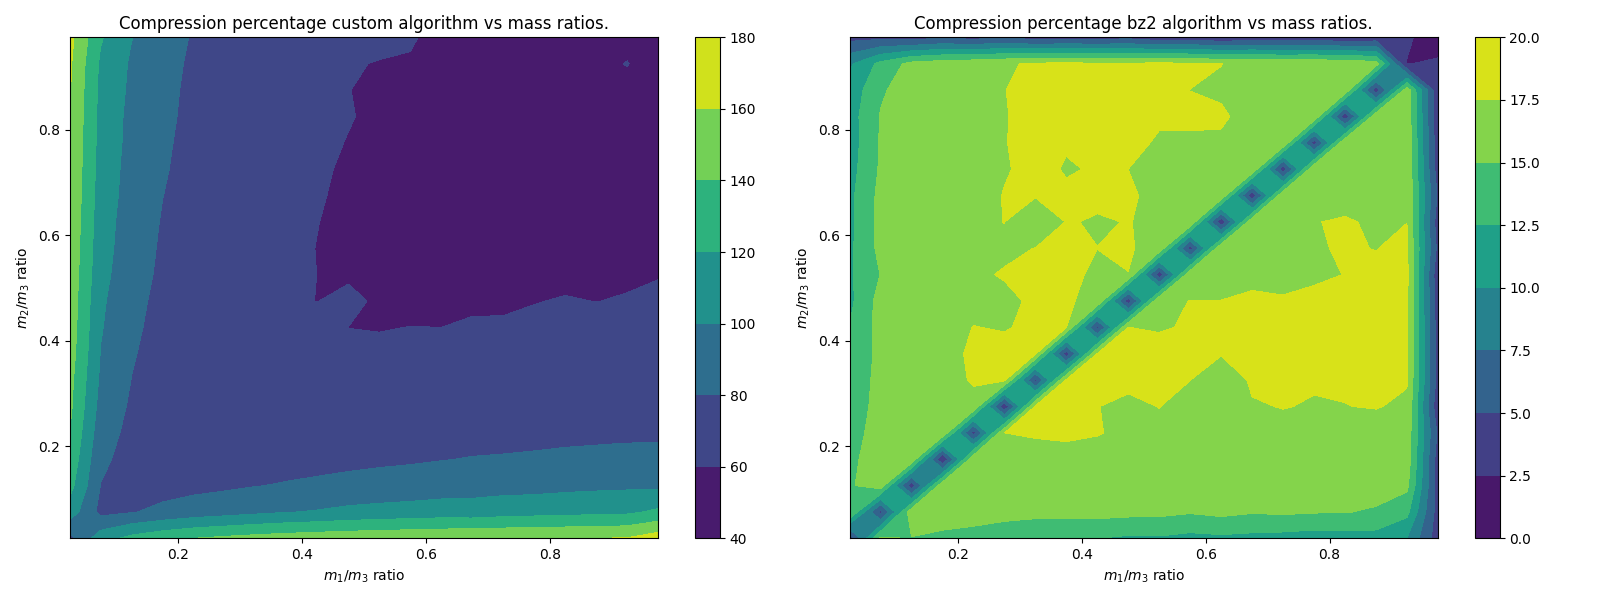
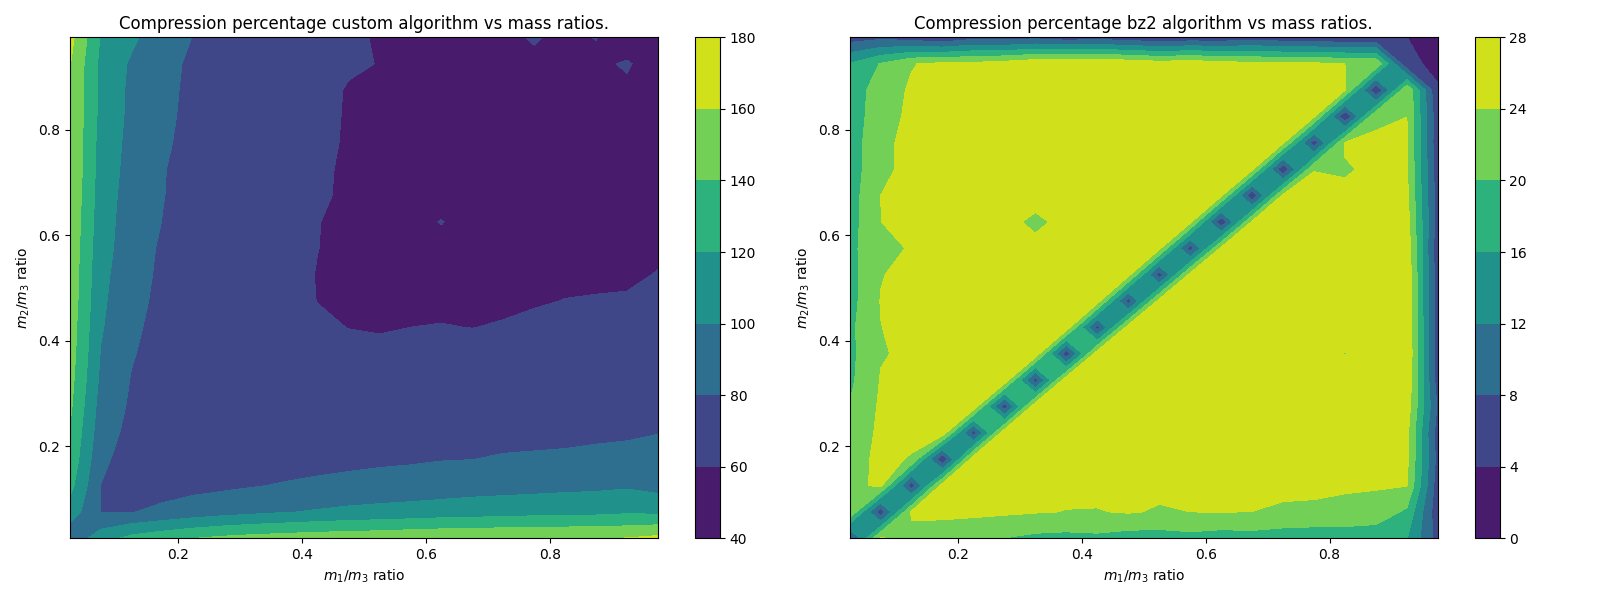
Fixed the faulty conversion to byte objects. A more efficient and correct method is utilized

diff --git a/compression_comparison/unified_plot.py b/compression_comparison/unified_plot.py
@@ -4,6 +4,7 @@ import sys
 import zlib
 import bz2
 import time
+import secrets
 
 from auxiliary import *
 
@@ -46,7 +47,7 @@ for i in range(len(sizes)):
 
         comp_zlib = sys.getsizeof(zlib.compress(bites))
         comp_bz2 = sys.getsizeof(bz2.compress(bites))
-        comp_custom = len(encoder.encode_b(string))
+        comp_custom = len(encoder.encode_a(string))
 
         zlib_row.append(100 * comp_zlib / size)
         bz2_row.append(100 * comp_bz2 / size)
@@ -78,9 +79,10 @@ for i in range(len(sizes)):
         print(f"Processing {i}, number {j}.")
 
         start_time = time.time()
-        randomString = "".join(
-            [str(r) for r in np.random.randint(0, 2, size=lengths[i])]
-        )
+        #randomString = "".join(
+        #    [str(r) for r in np.random.randint(0, 2, size=lengths[i])]
+        #)
+        randomString = "".join([str(secrets.randbelow(2)) for i in range(lengths[i])])
         bites = read_bytes_from_file(
             "Experiments/3particlestrings/randombites{}_{}".format(
                 str(int(sizes[i])), str(j)
@@ -96,7 +98,7 @@ for i in range(len(sizes)):
 
         comp_zlib = sys.getsizeof(zlib.compress(bites))
         comp_bz2 = sys.getsizeof(bz2.compress(bites))
-        comp_custom = len(encoder.encode_b(randomString))
+        comp_custom = len(encoder.encode_a(randomString))
 
         zlib_row.append(100 * comp_zlib / size)
         bz2_row.append(100 * comp_bz2 / size)
@@ -140,8 +142,8 @@ ax.bar_label(rects1, padding=3)
 ax.bar_label(rects2, padding=3)
 
 # Plot zlib compression percentage
-generated_zlib_means = [round(np.mean(size), 2) for size in generated_zlib_percs]
-random_zlib_means = [round(np.mean(size), 2) for size in random_zlib_percs]
+generated_zlib_means = [round(np.mean(size), 1) for size in generated_zlib_percs]
+random_zlib_means = [round(np.mean(size), 1) for size in random_zlib_percs]
 
 generated_zlib_stds = [jacknife_error(size) for size in generated_zlib_percs]
 random_zlib_stds = [jacknife_error(size) for size in random_zlib_percs]
@@ -171,8 +173,8 @@ ax.bar_label(rects1, padding=3)
 ax.bar_label(rects2, padding=3)
 
 # Plot bz2 compression percentage
-generated_bz2_means = [round(np.mean(size), 2) for size in generated_bz2_percs]
-random_bz2_means = [round(np.mean(size), 2) for size in random_bz2_percs]
+generated_bz2_means = [round(np.mean(size), 1) for size in generated_bz2_percs]
+random_bz2_means = [round(np.mean(size), 1) for size in random_bz2_percs]
 
 generated_bz2_stds = [jacknife_error(size) for size in generated_bz2_percs]
 random_bz2_stds = [jacknife_error(size) for size in random_bz2_percs]
@@ -192,14 +194,14 @@ ax.set_ylabel("Compression percentage")
 ax.set_title("Compression percentage by length, \n bz2 compression algorithm")
 ax.set_xlabel("String length")
 ax.set_xticks(x, labels)
-ax.set_ylim(0, 210)
+ax.set_ylim(0, 240)
 ax.legend()
 ax.bar_label(rects1, padding=3)
 ax.bar_label(rects2, padding=3)
 
 # Plot custom compression algorithm compression percentage
-generated_custom_means = [round(np.mean(size), 2) for size in generated_encoder_percs]
-random_custom_means = [round(np.mean(size), 2) for size in random_encoder_percs]
+generated_custom_means = [round(np.mean(size), 1) for size in generated_encoder_percs]
+random_custom_means = [round(np.mean(size), 1) for size in random_encoder_percs]
 
 generated_custom_stds = [jacknife_error(size) for size in generated_encoder_percs]
 random_custom_stds = [jacknife_error(size) for size in random_encoder_percs]

diff --git a/compression_comparison/write_down_bites.py b/compression_comparison/write_down_bites.py
@@ -2,6 +2,7 @@ import string
 from auxiliary import *
 import time
 import numpy as np
+import secrets
 
 sizes = np.logspace(2, 7, 6)
 nSims = 40
@@ -9,7 +10,7 @@ nSims = 40
 for i in range(len(sizes)):
     for j in range(nSims):
         print(f"Processing {i}, number {j}.")
-        print(f"{((i+1)*40+(j+1))/(6*40)*100:.2f}% done.")
+        print(f"{(i*40+j)/(6*40)*100:.2f}% done.")
 
         t1 = time.time()
         string = convert_to_string_file(
@@ -19,7 +20,7 @@ for i in range(len(sizes)):
         print(f"It took me {t2-t1:.2f}s to convert collision history to a string.")
 
         t1 = time.time()
-        bites = convert_to_bytes_object(string)
+        bites = bitstring_to_bytes_compact(string)
         t2 = time.time()
         print(f"It took me {t2-t1:.2f}s to convert to a bytes object.")
 
@@ -38,15 +39,16 @@ lengths = [int(size) for size in sizes]
 for i, length in enumerate(lengths):
     for j in range(nSims):
         print(f"Processing {i}, number {j}.")
-        print(f"{((i+1)*40+(j+1))/(6*40)*100:.2f}% done.")
+        print(f"{(i*40+j)/(6*40)*100:.2f}% done.")
 
         t1 = time.time()
         randomString = "".join([str(r) for r in np.random.randint(0, 2, size=length)])
+        #randomString = "".join([str(secrets.randbelow(2)) for i in range(lengths[i])])
         t2 = time.time()
         print(f"It took me {t2-t1:.2f}s to generate random string of size {length}.")
 
         t1 = time.time()
-        bites = convert_to_bytes_object(randomString)
+        bites = bitstring_to_bytes_compact(randomString)
         t2 = time.time()
         print(f"It took me {t2-t1:.2f}s to convert to a bytes object.")
 

diff --git a/2d_plot_scripts/auxiliary.py b/2d_plot_scripts/auxiliary.py
@@ -57,39 +57,30 @@ def convert_to_string_file(filepath):
     return string
 
 
-def convert_to_bytes_object(string, bitsToBytes=8):
-    """Only use on binary strings"""
-    bites = b""
-    i = 0
-    while i < len(string) - bitsToBytes:
-        bits = int_to_bytes(int(string[i : i + bitsToBytes], 2))
-        i += bitsToBytes
-        bites += bits
+def write_to_file_bytes_object(bites, filename):
+    f = open(filename, "wb")
+    f.write(bites)
+    f.close()
 
-    if i != len(string):
-        finalBits = int_to_bytes(int(string[i:], 2))
-        bites += finalBits
 
+def read_bytes_from_file(filename):
+    f = open(filename, "rb")
+    bites = f.read()
+    f.close()
     return bites
 
 
-def int_to_bytes(input_int):
-    isinstance(input_int, int) or exit(99)
-    (input_int >= 0) or exit(98)
-    if input_int == 0:
-        return bytes([0])
-    L1 = []
+def bitstring_to_bytes_compact(s):
+    return int(s, 2).to_bytes(-(-len(s) // 8), byteorder='big')
 
-    num_bits = input_int.bit_length()
 
-    while input_int:
-        L1[0:0] = [(input_int & 0xFF)]
-        input_int >>= 8
-
-    if (num_bits % 8) == 0:
-        L1[0:0] = [0]
-
-    return bytes(L1)
+def bitstring_to_bytes(s):
+    v = int(s, 2)
+    b = bytearray()
+    while v:
+        b.append(v & 0xff)
+        v >>= 8
+    return bytes(b[::-1])
 
 
 def jacknife_error(data):

diff --git a/compression_comparison/auxiliary.py b/compression_comparison/auxiliary.py
@@ -57,22 +57,6 @@ def convert_to_string_file(filepath):
     return string
 
 
-def convert_to_bytes_object(string, bitsToBytes=8):
-    """Only use on binary strings"""
-    bites = b""
-    i = 0
-    while i < len(string) - bitsToBytes:
-        bits = int_to_bytes(int(string[i : i + bitsToBytes], 2))
-        i += bitsToBytes
-        bites += bits
-
-    if i != len(string):
-        finalBits = int_to_bytes(int(string[i:], 2))
-        bites += finalBits
-
-    return bites
-
-
 def write_to_file_bytes_object(bites, filename):
     f = open(filename, "wb")
     f.write(bites)
@@ -86,23 +70,17 @@ def read_bytes_from_file(filename):
     return bites
 
 
-def int_to_bytes(input_int):
-    isinstance(input_int, int) or exit(99)
-    (input_int >= 0) or exit(98)
-    if input_int == 0:
-        return bytes([0])
-    L1 = []
+def bitstring_to_bytes_compact(s):
+    return int(s, 2).to_bytes(-(-len(s) // 8), byteorder='big')
 
-    num_bits = input_int.bit_length()
 
-    while input_int:
-        L1[0:0] = [(input_int & 0xFF)]
-        input_int >>= 8
-
-    if (num_bits % 8) == 0:
-        L1[0:0] = [0]
-
-    return bytes(L1)
+def bitstring_to_bytes(s):
+    v = int(s, 2)
+    b = bytearray()
+    while v:
+        b.append(v & 0xff)
+        v >>= 8
+    return bytes(b[::-1])
 
 
 def jacknife_error(data):

diff --git a/2d_massratios_creation.py b/2d_massratios_creation.py
@@ -1,5 +1,6 @@
 import numpy as np
 from simulation import *
+import time
 
 ratios13 = np.linspace(0.01, 1, 20)
 ratios23 = np.linspace(0.01, 1, 20)
@@ -8,10 +9,13 @@ for i, ratio13 in enumerate(ratios13):
     for j, ratio23 in enumerate(ratios23):
         masses = np.array([ratio13, ratio23, 1])
         for k in range(10):
+            print(f"Simulating i={i}, j={j}, k={k}.")
             vels = 2 * np.random.random(2) - 1
             vels = np.append(
                 vels, (-masses[0] * vels[0] - masses[1] * vels[1]) / masses[2]
             )
+            
+            start_time = time.time()
             experiment = Simulation(
                 collisionNumber=100000, particleNumber=3, masses=masses, initVels=vels
             )
@@ -23,4 +27,7 @@ for i, ratio13 in enumerate(ratios13):
                 + "_"
                 + str(k)
             )
-            experiment.run(shouldLog=["collideIndices"], filename=filename)
+            experiment.run(shouldLog=["collideIndices"], storageType="file", storageName=filename)
+            end_time = time.time()
+            print(f"Took me {end_time-start_time:.2f}s to simulate 100000 collisions.")
+            print(f"{(i*200+j*10+k)/(20*20*10)*100:.2f}% done.")

diff --git a/string_to_bytes.py b/string_to_bytes.py
@@ -1,0 +1,36 @@
+# This algorithm converts an integer to a pure bytes object
+# I found it online, I imagine a mistake could be hiding in here
+def int_to_bytes(input_int):
+    isinstance(input_int, int) or exit(99)
+    (input_int >= 0) or exit(98)
+    if input_int == 0:
+        return bytes([0])
+    L1 = []
+
+    num_bits = input_int.bit_length()
+
+    while input_int:
+        L1[0:0] = [(input_int & 0xFF)]
+        input_int >>= 8
+
+    if (num_bits % 8) == 0:
+        L1[0:0] = [0]
+
+    return bytes(L1)
+
+
+# Actual conversion of the whole string to a bites object
+def convert_to_bytes_object(string, bitsToBytes=8):
+    """Only use on binary strings"""
+    bites = b""
+    i = 0
+    while i < len(string) - bitsToBytes:
+        bits = int_to_bytes(int(string[i : i + bitsToBytes], 2))
+        i += bitsToBytes
+        bites += bits
+
+    if i != len(string):
+        finalBits = int_to_bytes(int(string[i:], 2))
+        bites += finalBits
+
+    return bites

diff --git a/2d_plot_scripts/custom_and_bz2_2d.py b/2d_plot_scripts/custom_and_bz2_2d.py
@@ -25,13 +25,14 @@ for i in range(20):
                 + "_"
                 + str(k)
             )
-            bites = convert_to_bytes_object(string)
+            bites = bitstring_to_bytes_compact(string)
             sizeC = len(string)
             sizeB = sys.getsizeof(bites)
             comp_sizeC = len(encoder.encode_b(string))
             comp_sizeB = sys.getsizeof(bz2.compress(bites))
             columnC.append(100 * comp_sizeC / sizeC)
             columnB.append(100 * comp_sizeB / sizeB)
+            print(f"Processed {(i*200+j*10+k)/(10*20*20)*100}%.")
         rowC.append(columnC)
         rowB.append(columnB)
     customs.append(rowC)

diff --git a/2d_plot_scripts/zlib_vs_massratio_2d.py b/2d_plot_scripts/zlib_vs_massratio_2d.py
@@ -23,12 +23,14 @@ for i in range(20):
                 + "_"
                 + str(k)
             )
-            bites = convert_to_bytes_object(string)
+            bites = bitstring_to_bytes_compact(string)
             size = sys.getsizeof(bites)
             compressed_size = sys.getsizeof(zlib.compress(bites))
 
             size_column.append(size)
             compressed_column.append(compressed_size)
+            
+            print(f"Processed {(i*200+j*10+k)/(10*20*20)*100}%.")
 
         size_row.append(size_column)
         compressed_row.append(compressed_column)

diff --git a/2d_plot_scripts/bz2_vs_massratio_2d.py b/2d_plot_scripts/bz2_vs_massratio_2d.py
@@ -23,12 +23,14 @@ for i in range(20):
                 + "_"
                 + str(k)
             )
-            bites = convert_to_bytes_object(string)
+            bites = bitstring_to_bytes(string)
             size = sys.getsizeof(bites)
             comp_size = sys.getsizeof(bz2.compress(bites))
 
             size_column.append(size)
             compressed_column.append(comp_size)
+            
+            print(f"Processed {(i*200+j*10+k)/(10*20*20)*100}%.")
 
         size_row.append(size_column)
         compressed_row.append(compressed_column)

diff --git a/compression_comparison/entropy_comparison.py b/compression_comparison/entropy_comparison.py
@@ -1,7 +1,7 @@
-from math import log, e
 import numpy as np
 import matplotlib.pyplot as plt
 from auxiliary import *
+import secrets
 
 sizes = np.logspace(2, 7, 6)
 nSims = 40
@@ -25,7 +25,8 @@ random_strings = []
 for length in lengths:
     group = []
     for j in range(nSims):
-        random = np.random.randint(0, 2, size=length)
+        #random = np.random.randint(0, 2, size=length)
+        random = [secrets.randbelow(2) for i in range(length)]
         random = [str(r) for r in random]
 
         group.append("".join(random))
